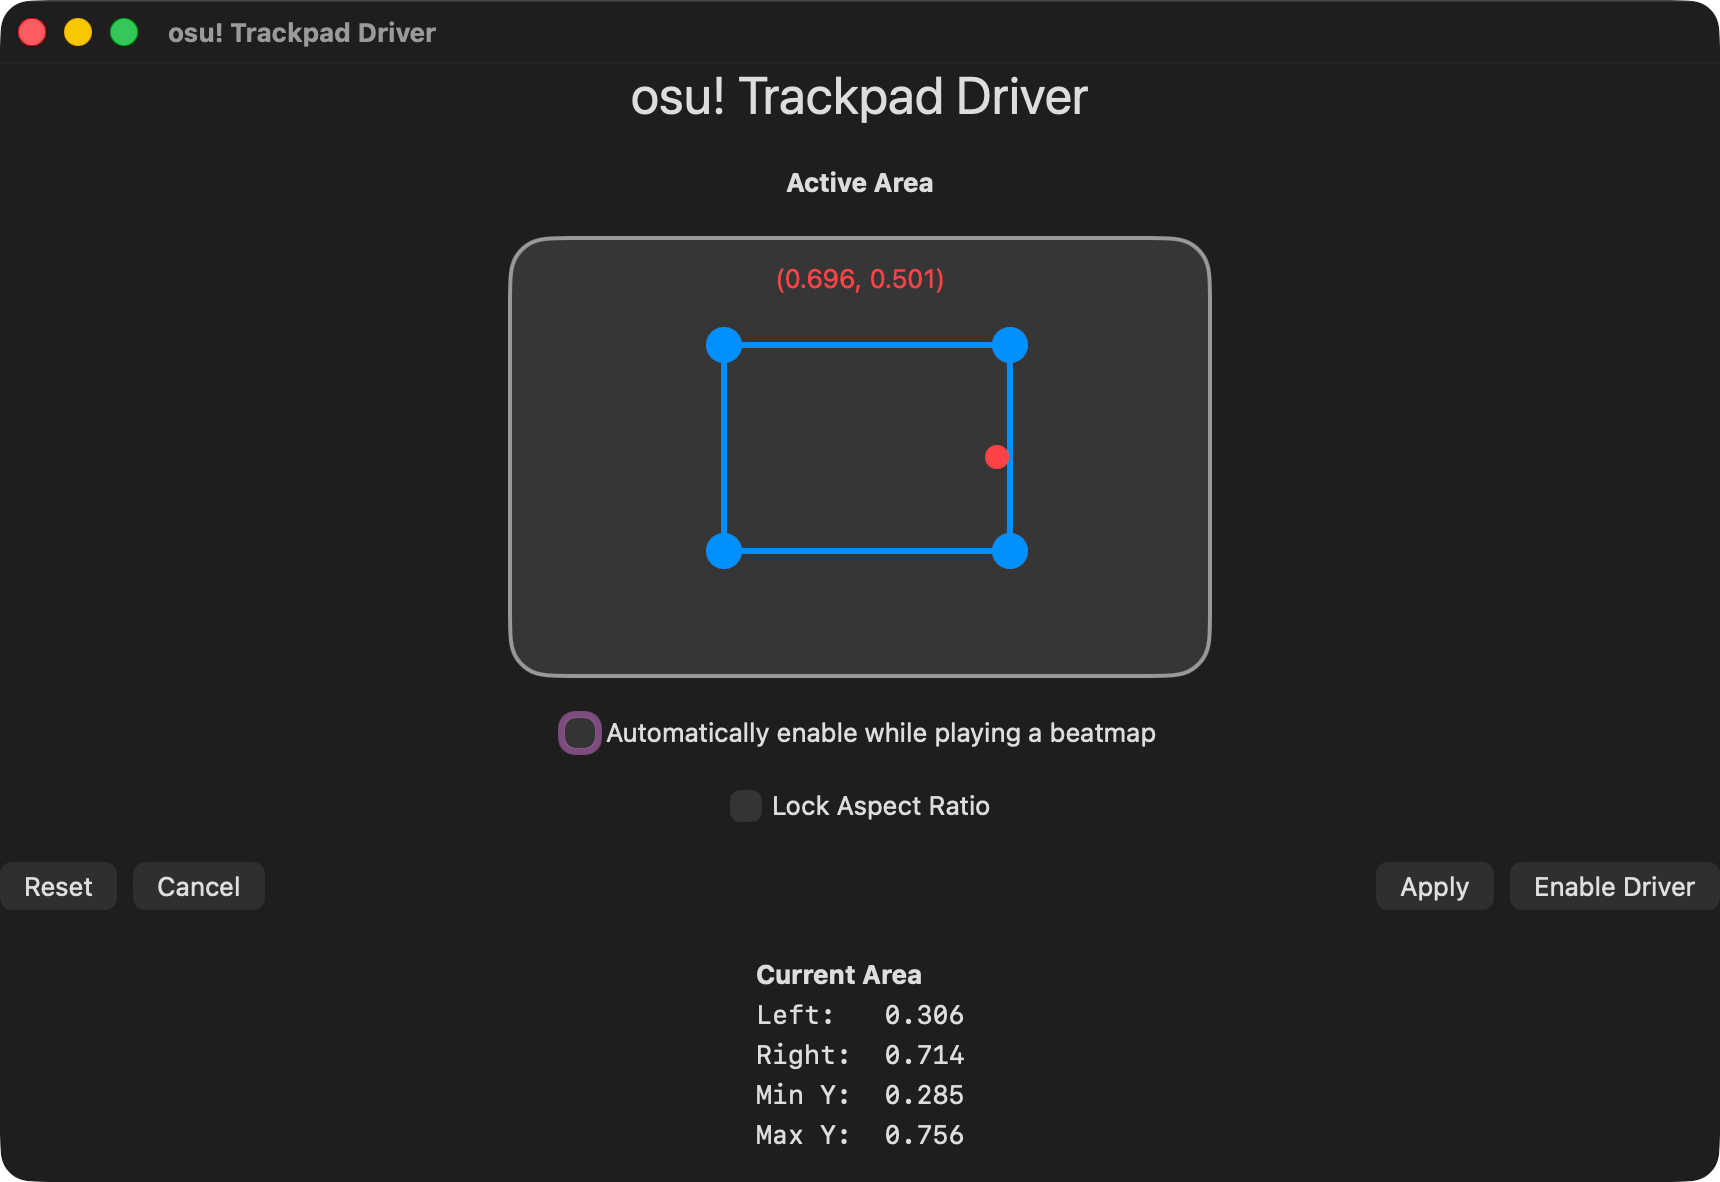
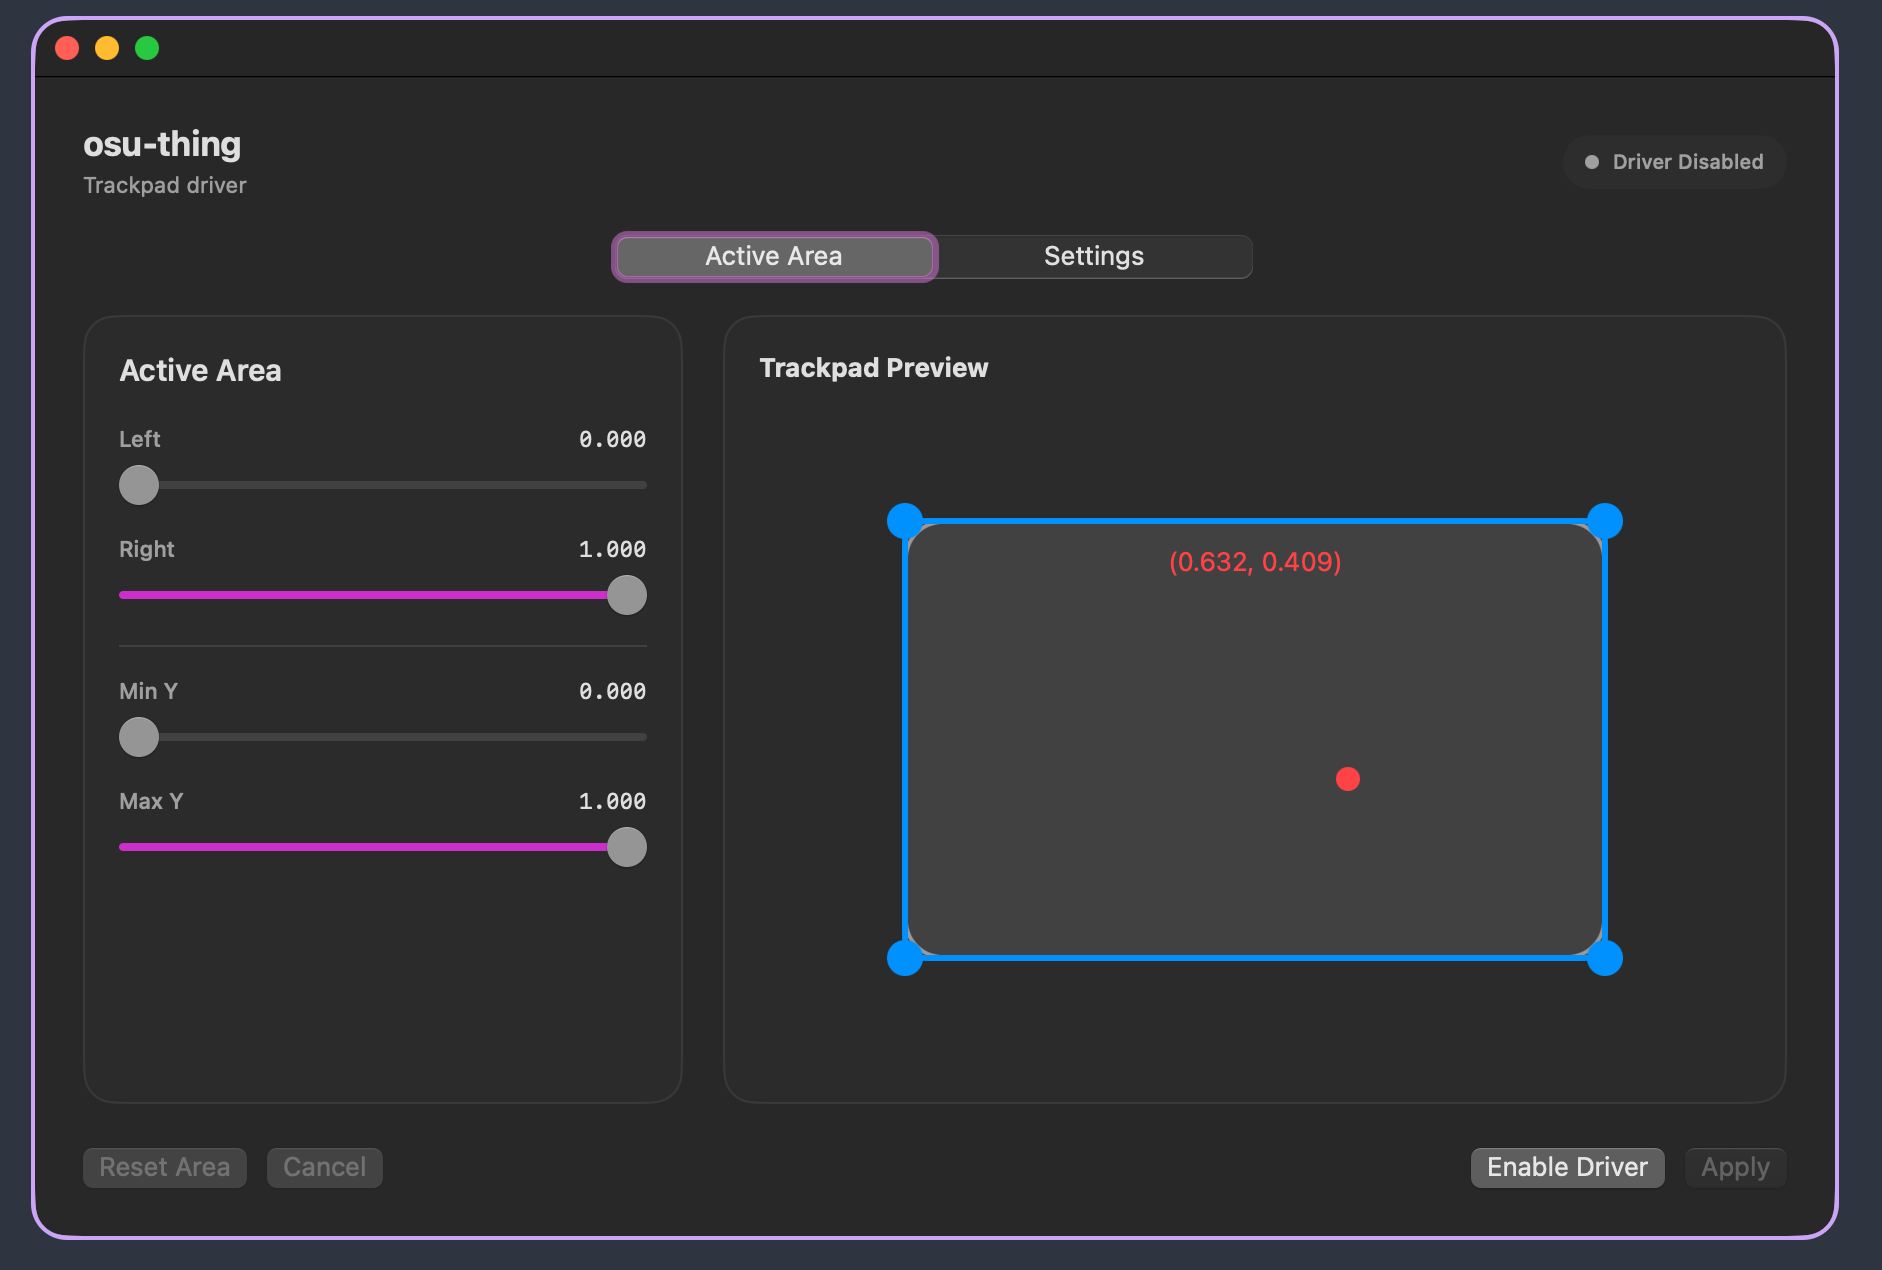
docs(preview): Update the preview image to match new ui

diff --git a/README.md b/README.md
@@ -20,7 +20,7 @@
 > This framework is not a public API and may change or stop working
 > in previous or future macOS versions.
 >
-> osu-thing currently targets **macOS 26.0 on Apple Silicon**.
+> osu-thing currently targets **macOS 27.0**.
  
 ### Using homebrew
 
